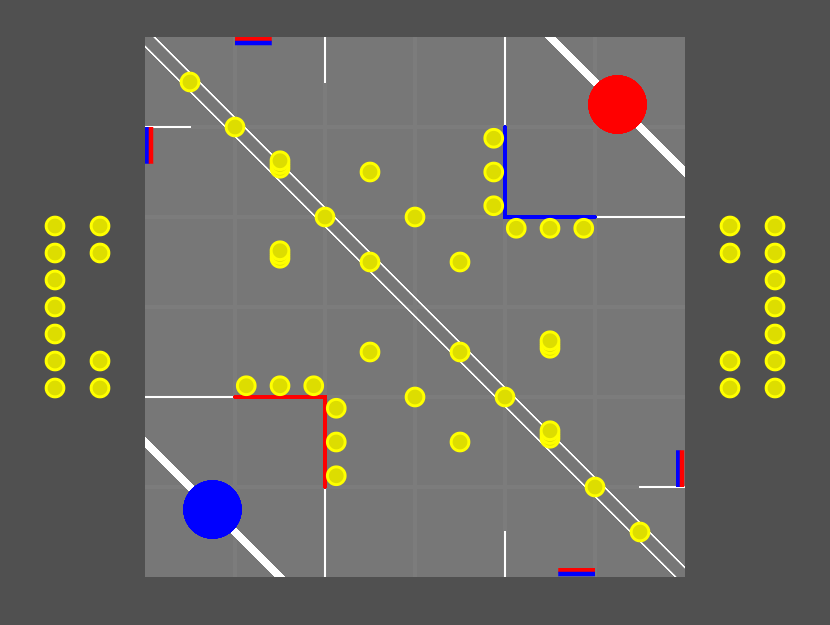
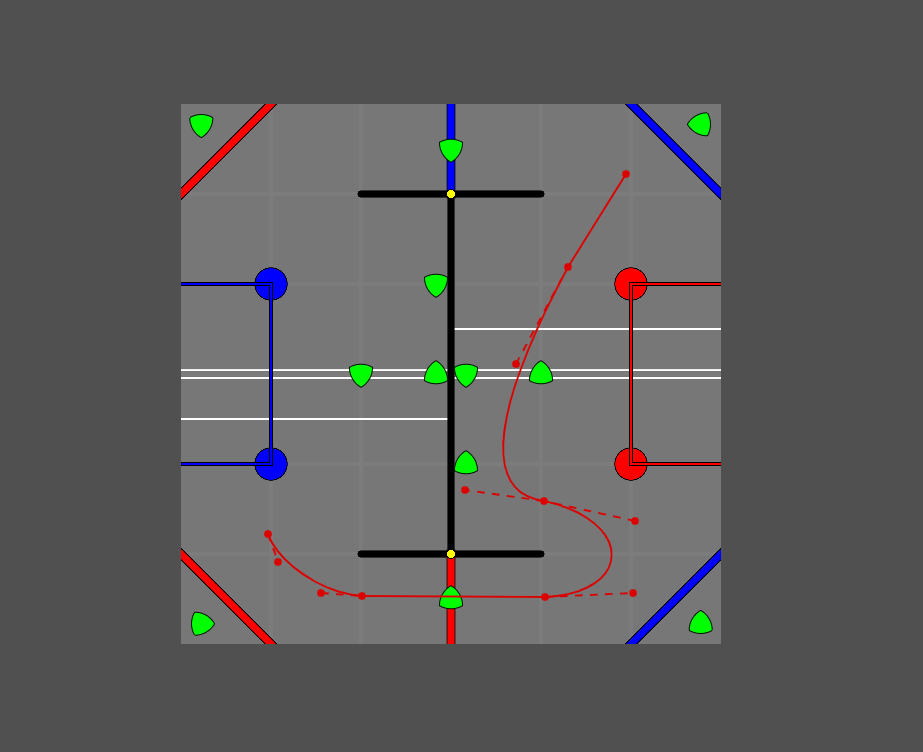
update embed

Changed region(s): [[0.0301, 0.0608, 0.9639, 0.9424], [0.3614, 0.304, 0.4217, 0.3952], [0.6627, 0.2128, 0.6928, 0.2432]]

diff --git a/index.html b/index.html
@@ -8,12 +8,12 @@
   <title>VRC Field Map</title>
 
   <meta name="description"
-    content="An interactive map of the VRC game Spin Up for route planning and planning with alliance partners">
+    content="An interactive map of the VRC game Over Under for route planning and planning with alliance partners">
 
   <meta property="og:title" content="VRC Field Map" />
   <meta property="og:image" content="/vrc-field-map/media/embed-image.png" />
   <meta property="og:description"
-    content="An interactive map of the VRC game Spin Up for route planning and planning with alliance partners" />
+    content="An interactive map of the VRC game Over Under for route planning and planning with alliance partners" />
 
   <link rel="preconnect" href="https://fonts.googleapis.com">
   <link rel="preconnect" href="https://fonts.gstatic.com" crossorigin>
